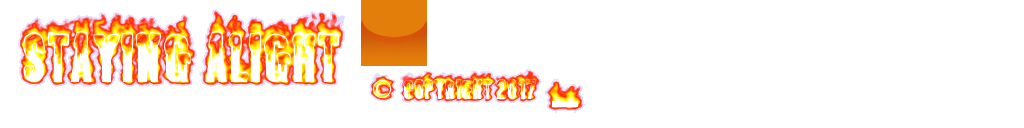
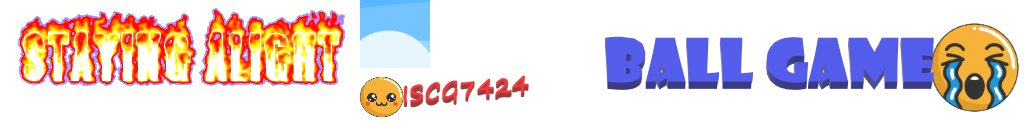
MenuLoading

diff --git a/core/src/nz/unitec/ballgame/tools/BallFactory.java b/core/src/nz/unitec/ballgame/tools/BallFactory.java
@@ -50,7 +50,7 @@ public class BallFactory {
     private OpenSimplexNoise openSim;
     public Entity player;
     public B2dAssetManager assman;
-    private Random  random=new Random();;
+
 
     public BallFactory(PooledEngine en, B2dAssetManager assMan) {
         engine = en;
@@ -113,8 +113,8 @@ public class BallFactory {
 
                     TextureRegion    enemy;
 
-;                   int enemyUnmber=  random.nextInt(18)+101;
-                    enemy=atlas.findRegion(String.valueOf(enemyUnmber));
+;
+                    enemy=atlas.findRegion(String.valueOf(MathUtils.random(101,118)));
                     // add an enemy
                     createEnemy(enemy, genNForL(i * 100, currentLevel) * (BallGame.WIDTH / 2 - offset) + BallGame.WIDTH / 2, BallGame.HEIGHT);
                 }

diff --git a/core/src/nz/unitec/ballgame/entity/components/PlayerComponent.java b/core/src/nz/unitec/ballgame/entity/components/PlayerComponent.java
@@ -10,7 +10,7 @@ public class PlayerComponent implements Component, Poolable{
 	public boolean onSpring = false;
 	public boolean isDead = false;
 	public int score = 0;
-	public float shootDelay = 0.8f;
+	public float shootDelay =1f;
 	public float timeSinceLastShot = 0f;
 	@Override
 	public void reset() {
@@ -19,7 +19,7 @@ public class PlayerComponent implements Component, Poolable{
 		onSpring = false;
 		isDead = false;
 		score = 0;
-		shootDelay = 0.8f;
+		shootDelay = 1f;
 		timeSinceLastShot = 0f;
 	}	
 }

diff --git a/core/src/nz/unitec/ballgame/views/LoadingScreen.java b/core/src/nz/unitec/ballgame/views/LoadingScreen.java
@@ -65,7 +65,7 @@ public class LoadingScreen implements Screen {
 		atlas = parent.assMan.manager.get("images/loading.atlas");
 		title = atlas.findRegion("staying-alight-logo");
 		dash = atlas.findRegion("loading-dash");
-		background = atlas.findRegion("flamebackground");
+		background = atlas.findRegion("reallygoodsmallback");
 		copyright = atlas.findRegion("copyright");
 		flameAnimation = new Animation(0.07f, atlas.findRegions("flames/flames"), PlayMode.LOOP);
 		

diff --git a/core/src/nz/unitec/ballgame/views/EndScreen.java b/core/src/nz/unitec/ballgame/views/EndScreen.java
@@ -37,7 +37,7 @@ public class EndScreen implements Screen {
 		// get skin
 		skin = parent.assMan.manager.get("skin/glassy-ui.json");
 		atlas = parent.assMan.manager.get("images/loading.atlas");
-		background = atlas.findRegion("flamebackground");
+		background = atlas.findRegion("reallygooddarkback");
 		
 		// create button to go back to manu
 		TextButton menuButton = new TextButton("Back", skin, "small");

diff --git a/core/src/nz/unitec/ballgame/views/ScoreScreen.java b/core/src/nz/unitec/ballgame/views/ScoreScreen.java
@@ -53,7 +53,7 @@ public class ScoreScreen implements Screen{
         parent.assMan.manager.finishLoading();
         skin = parent.assMan.manager.get("skin/glassy-ui.json");
         atlas = parent.assMan.manager.get("images/loading.atlas");
-        background = atlas.findRegion("flamebackground");
+        background = atlas.findRegion("reallygoodblackback");
 
     }
 

diff --git a/core/src/nz/unitec/ballgame/views/MenuScreen.java b/core/src/nz/unitec/ballgame/views/MenuScreen.java
@@ -33,7 +33,7 @@ public class MenuScreen implements Screen{
 		parent.assMan.manager.finishLoading();
 		skin = parent.assMan.manager.get("skin/glassy-ui.json");
 		atlas = parent.assMan.manager.get("images/loading.atlas");
-		background = atlas.findRegion("flamebackground");
+		background = atlas.findRegion("reallygoodback");
 		
 	}
 

diff --git a/core/src/nz/unitec/ballgame/views/PreferencesScreen.java b/core/src/nz/unitec/ballgame/views/PreferencesScreen.java
@@ -44,7 +44,7 @@ public class PreferencesScreen implements Screen{
 
 		// get images used to display loading progress
 		atlas = parent.assMan.manager.get("images/loading.atlas");
-		background = atlas.findRegion("flamebackground");
+		background = atlas.findRegion("reallygooddarkback");
 	}
 
 	@Override

diff --git a/core/src/nz/unitec/ballgame/views/MainScreen.java b/core/src/nz/unitec/ballgame/views/MainScreen.java
@@ -33,7 +33,7 @@ public class MainScreen implements Screen {
     private PooledEngine engine;
     private BallFactory ballFactory;
 
-    //private Sound ping;
+    //private "C:\Program Files\Git\bin\bash.exe" --login -i ping;
     //private Sound boing;
     private Entity player;
 
